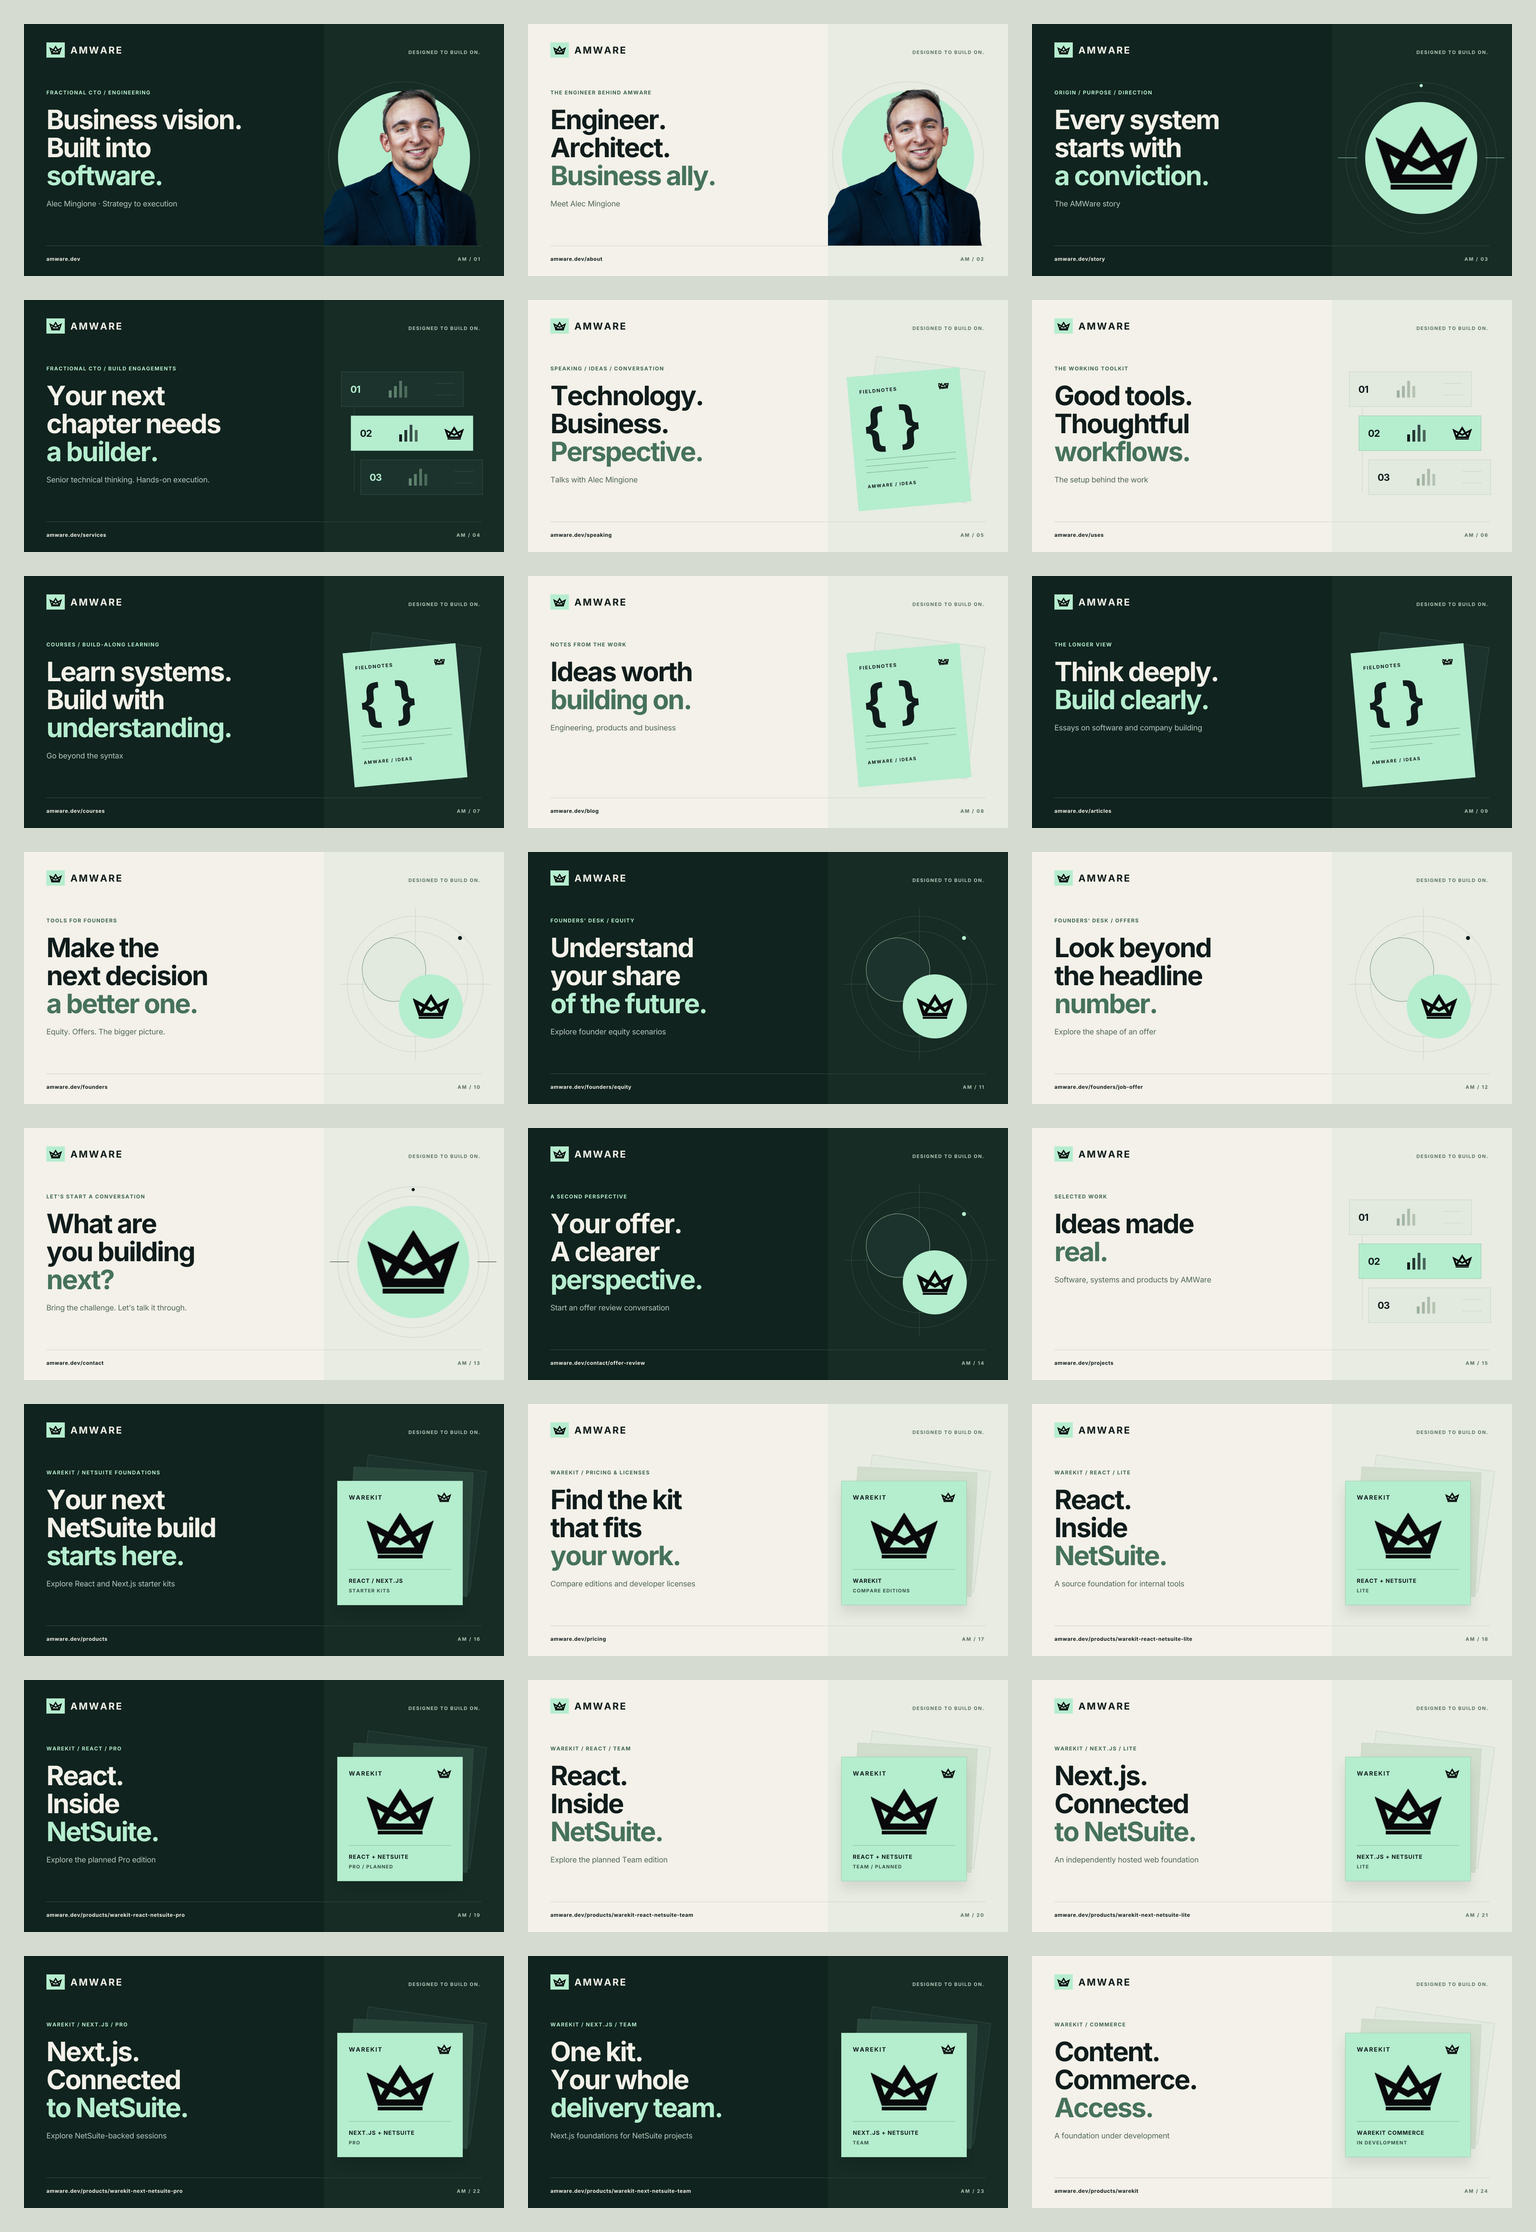
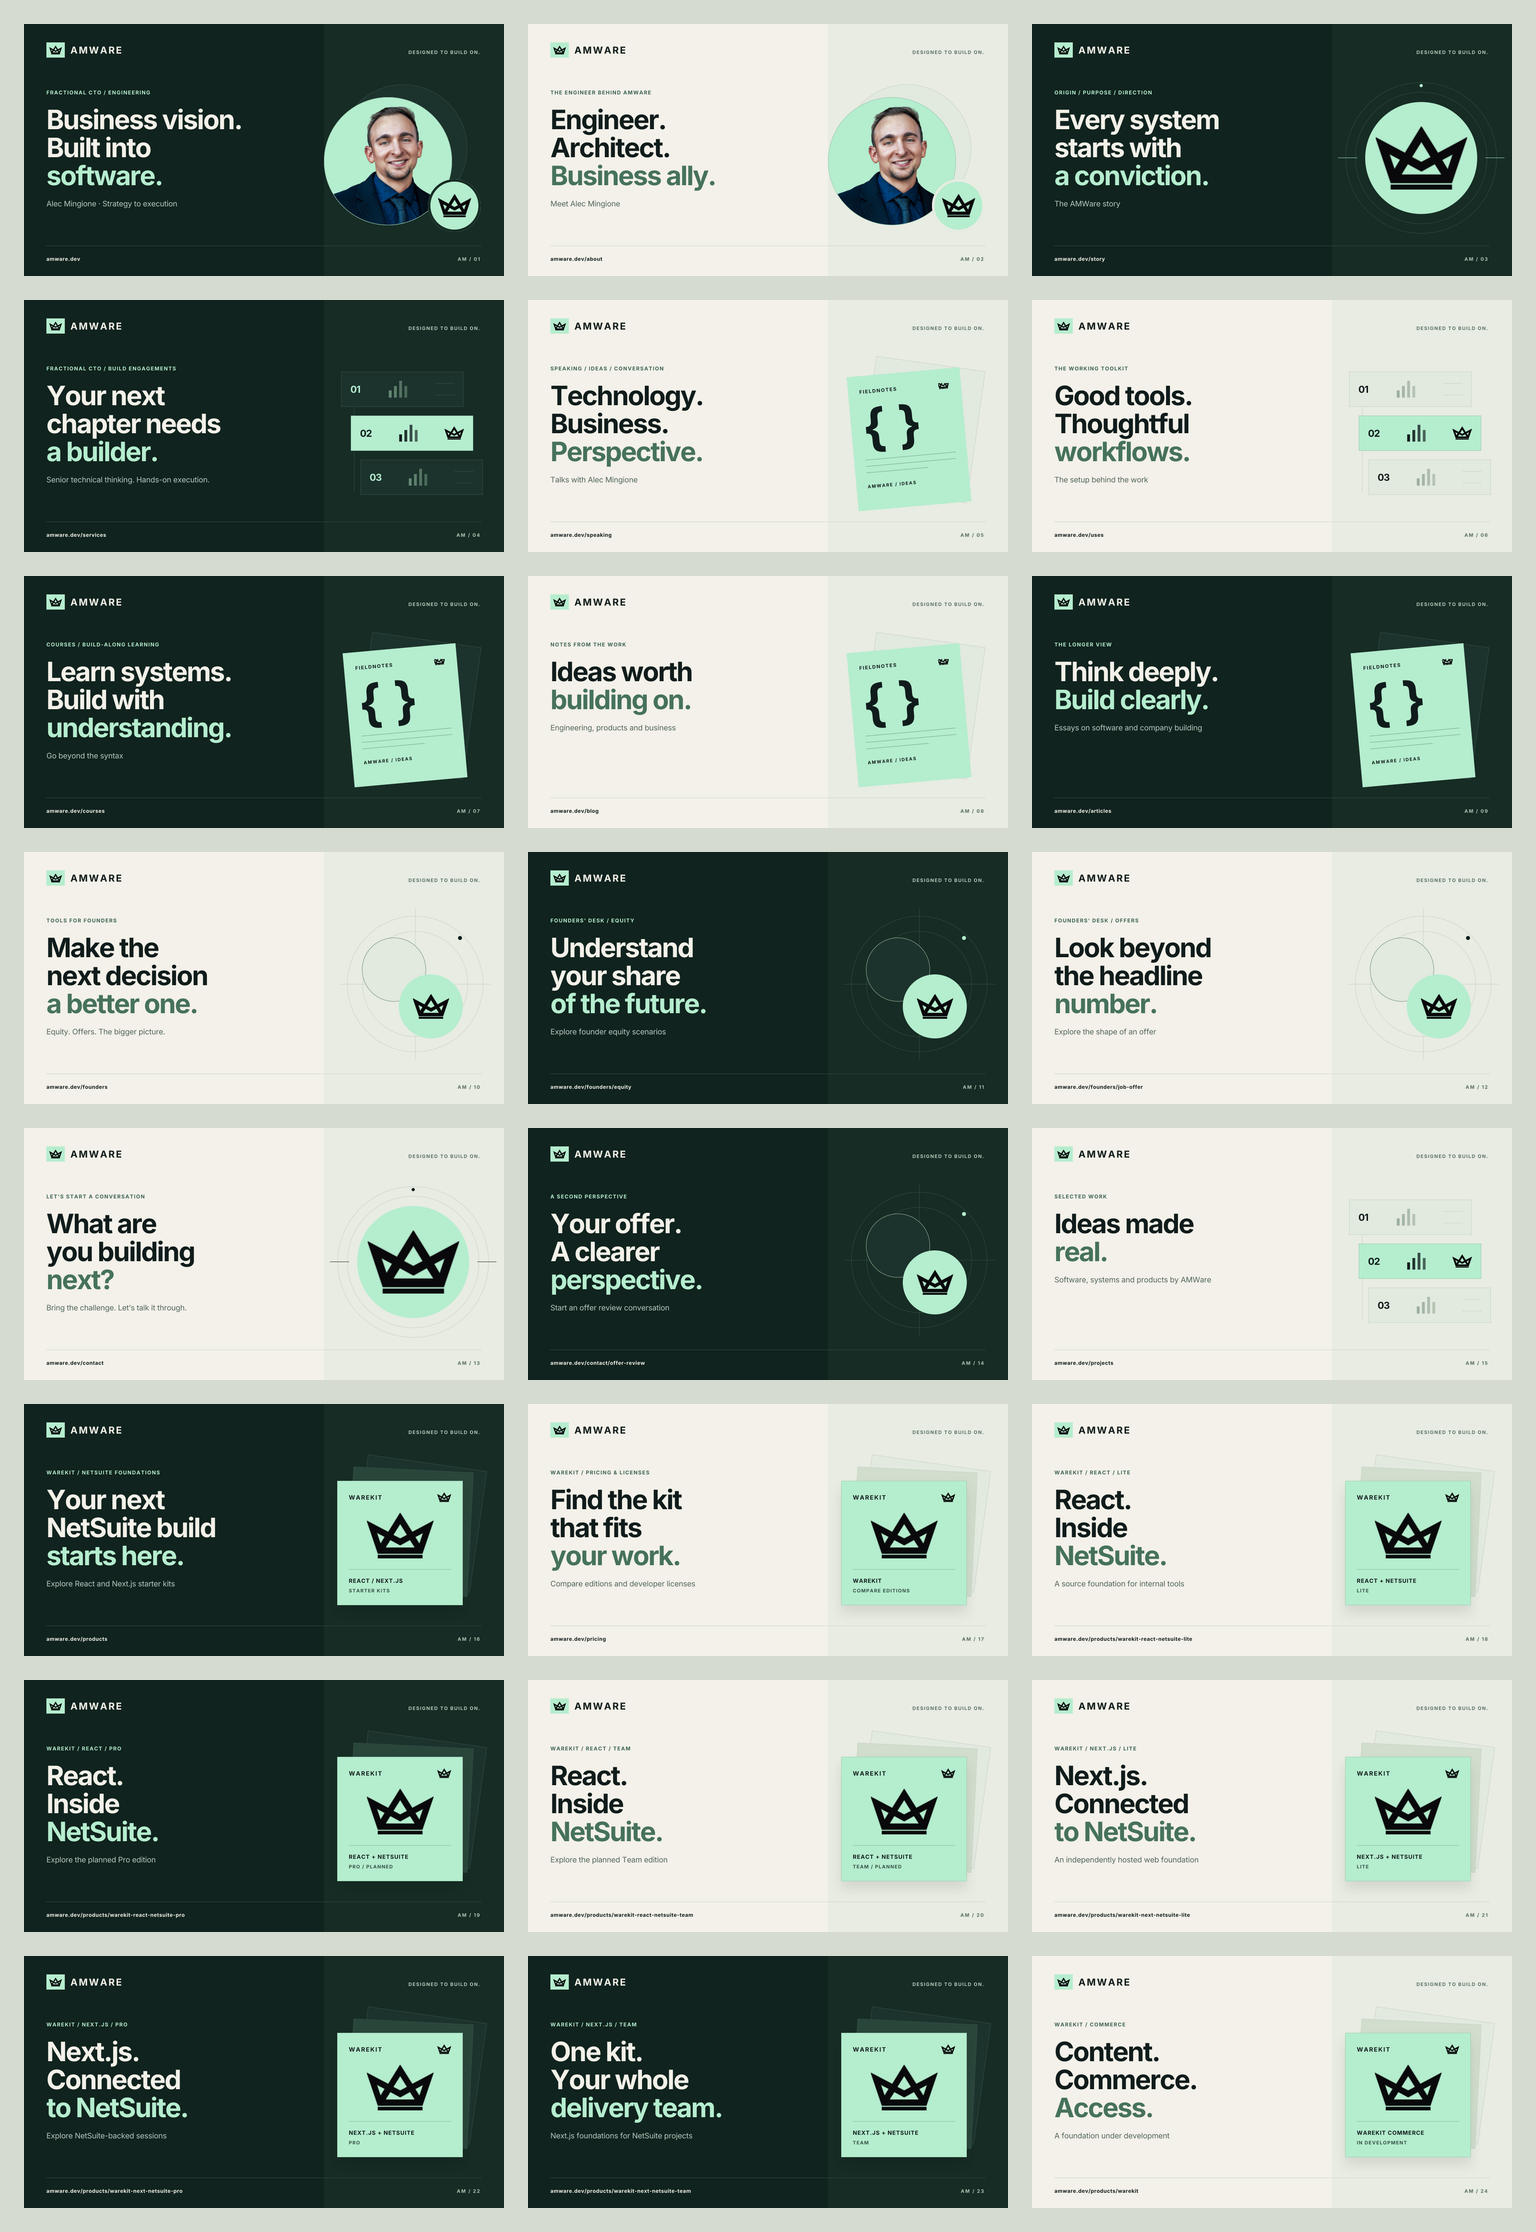
🖼 Frame Home and About portraits with circular crown badges

Changed region(s): [[0.5312, 0.0309, 0.6562, 0.1237], [0.1875, 0.0309, 0.3125, 0.1237]]

diff --git a/docs/design/2026-09-13-amware-open-graph/README.md b/docs/design/2026-09-13-amware-open-graph/README.md
@@ -50,3 +50,9 @@ The existing Speaking page contains inherited marketing copy whose factual claim
 - Regenerated the 24-cover gallery, contact sheet and asset report. SHA-256 comparison confirmed only `home.png` and `about.png` changed; the other 22 PNGs remain byte-identical.
 - Verified the updated gallery at 390px and 1440px: no horizontal overflow; all 24 images decoded at 1200 × 630. ESLint, Prettier and TypeScript checks passed.
 - Largest regenerated PNG: 251,709 bytes.
+
+## Circular portrait refinement
+
+Home and About now use a portrait clipped inside a 320px circle, an offset circular backing layer and a separate 132px crown circle beside the portrait. The crown overlaps the shoulder edge without covering the face. The original face, hair and headline remain fully visible. This intentionally replaces the earlier full-cutout treatment at the user's request.
+
+Full-size and paired 480px thumbnails were visually reviewed. The generator now refreshes `portrait-thumbnails.png` automatically. Independent review, changed-script ESLint/formatting and TypeScript checks passed. SHA-256 comparison confirmed the other 22 PNGs are unchanged. No product CMS assignments or application metadata changed.
